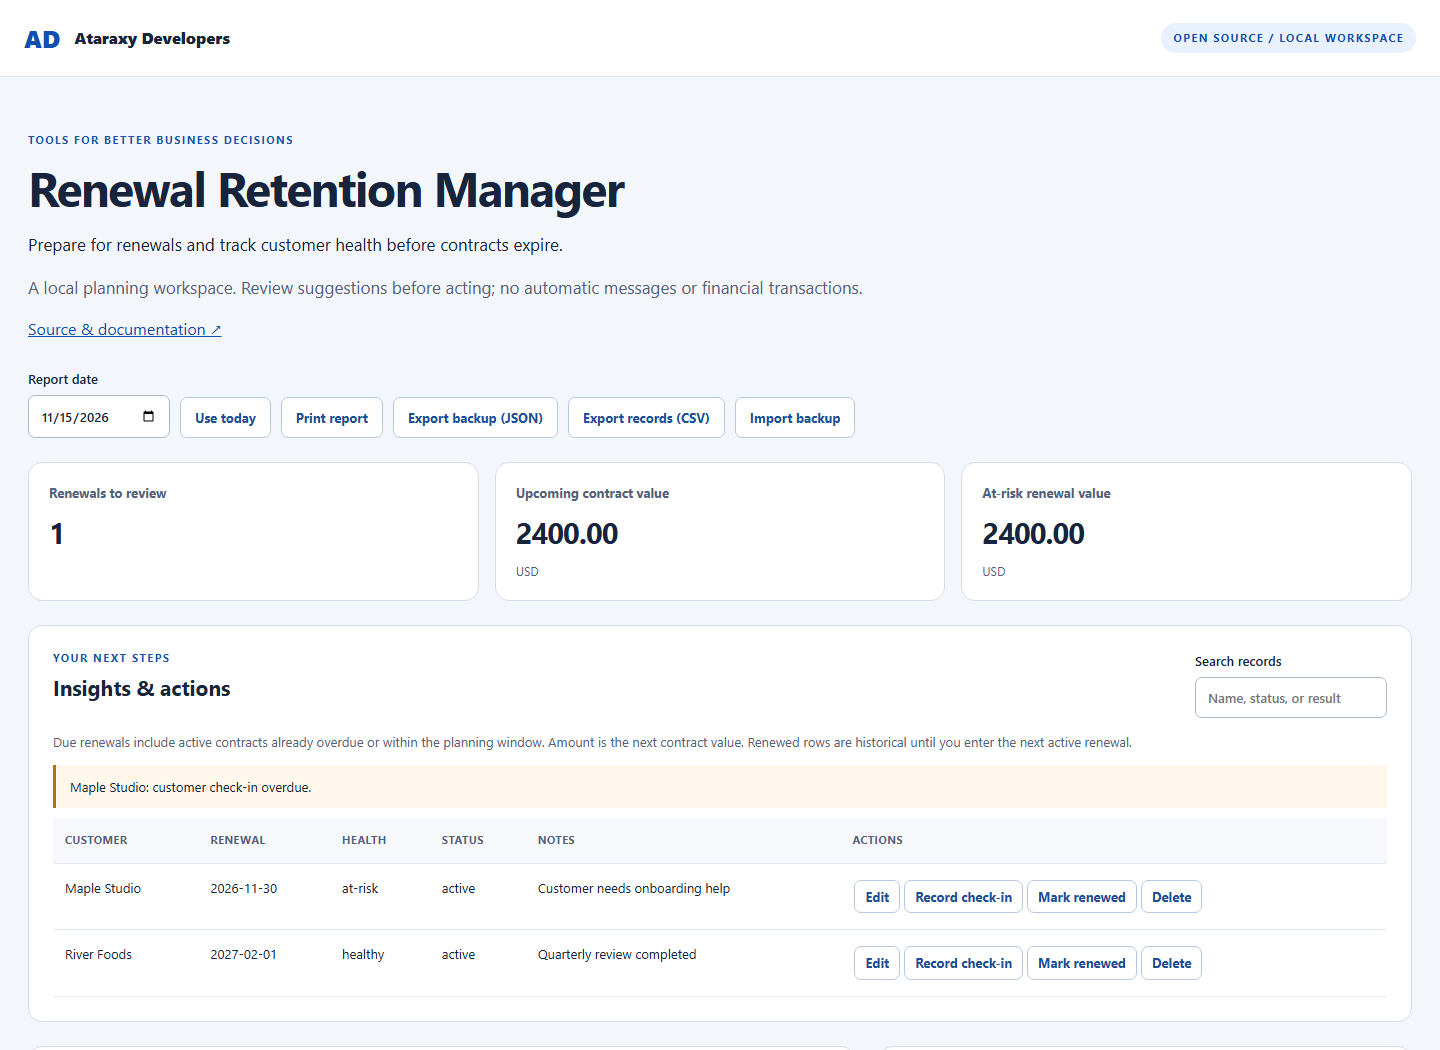
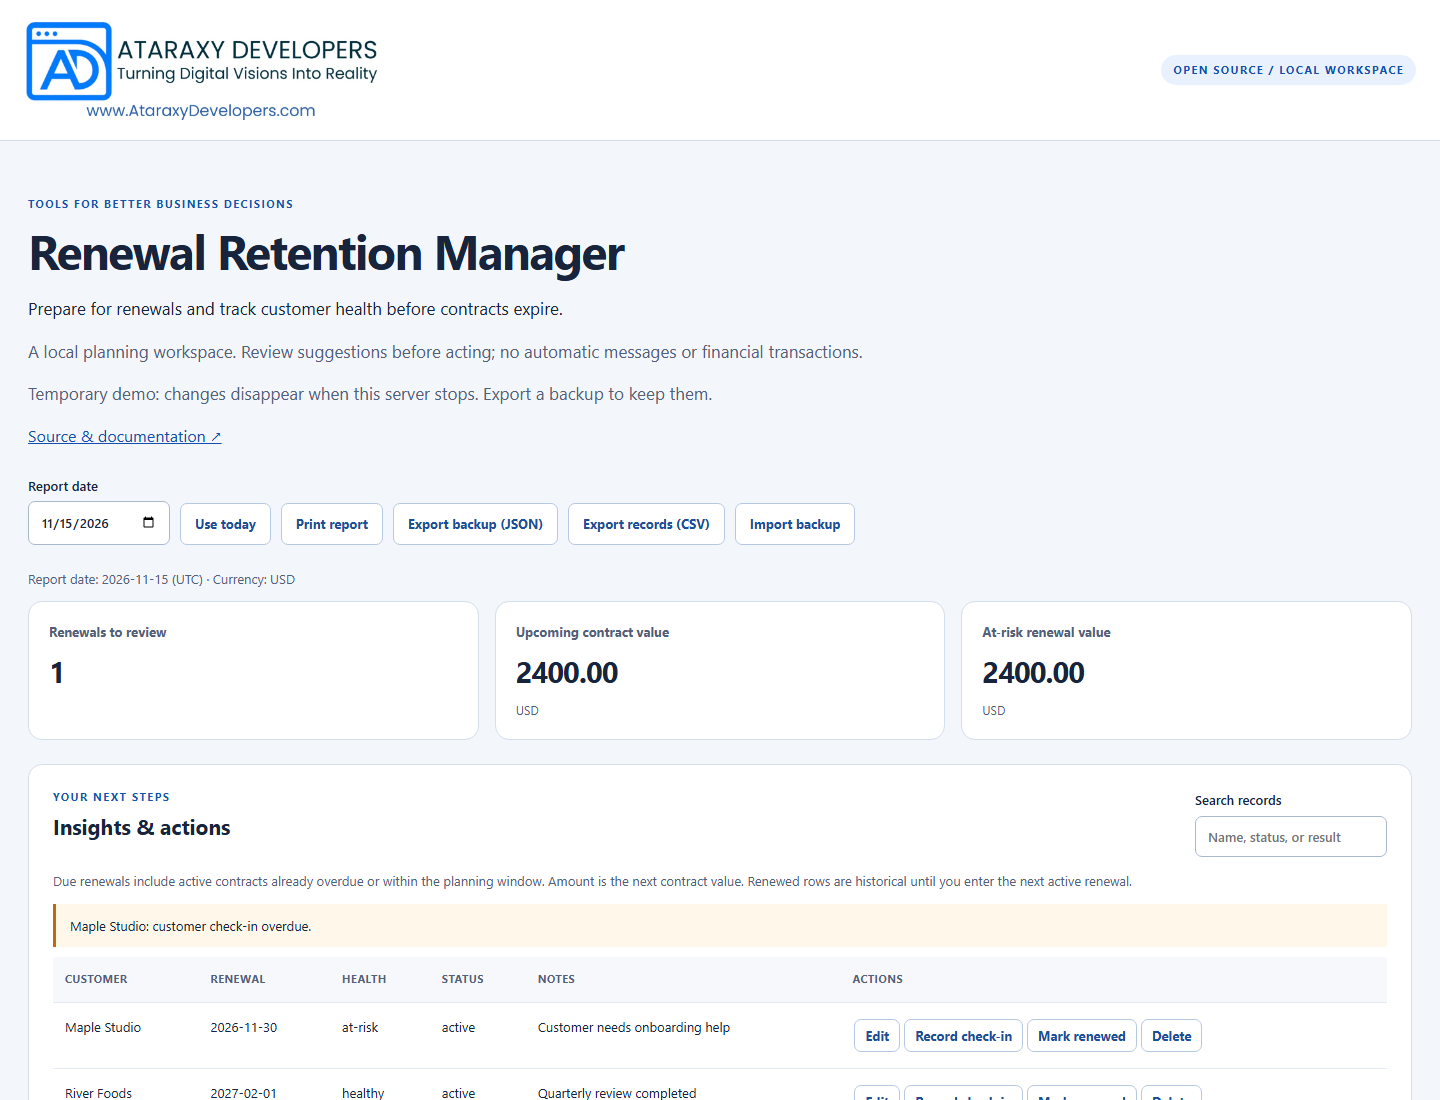
Use approved Ataraxy Developers branding

diff --git a/public/index.html b/public/index.html
@@ -4,16 +4,14 @@
     <meta charset="utf-8" />
     <meta name="viewport" content="width=device-width,initial-scale=1" />
     <title>Business workspace · Ataraxy Developers</title>
-    <link rel="icon" href="/favicon.svg" />
+    <link rel="icon" href="/ataraxy-developers-logo.png" type="image/png" />
     <link rel="stylesheet" href="/style.css" />
     <script type="module" src="/app.js"></script>
   </head>
   <body>
     <a class="skip" href="#main">Skip to workspace</a>
     <header>
-      <a class="brand" href="https://ataraxydevelopers.com"
-        >AD <span>Ataraxy Developers</span></a
-      ><span class="badge">OPEN SOURCE / LOCAL WORKSPACE</span>
+      <a class="brand" href="https://ataraxydevelopers.com"><img src="/ataraxy-developers-logo.png" alt="Ataraxy Developers — Turning Digital Visions Into Reality" width="1127" height="313" /></a><span class="badge">OPEN SOURCE / LOCAL WORKSPACE</span>
     </header>
     <main id="main">
       <section class="hero">

diff --git a/public/style.css b/public/style.css
@@ -40,10 +40,6 @@ header {
   font-weight: 800;
   text-decoration: none;
 }
-.brand span {
-  font-size: 16px;
-  color: #17243b;
-}
 .badge,
 .eyebrow {
   font-size: 11px;
@@ -364,3 +360,9 @@ footer {
     font-size: 27px;
   }
 }
+
+/* Use the complete, original company artwork without distortion. */
+header { flex-wrap: wrap; gap: 16px; background: #fff; }
+.brand { display: block; flex: 0 1 360px; min-width: 0; max-width: 100%; background: #fff; }
+.brand img { display: block; width: 360px; max-width: 100%; height: auto; }
+@media (max-width: 600px) { header { padding: 18px 20px; } .brand { flex-basis: 360px; } }

diff --git a/BRANDING.md b/BRANDING.md
@@ -1,0 +1,10 @@
+# Ataraxy Developers branding
+
+The company-approved logo is [public/ataraxy-developers-logo.png](public/ataraxy-developers-logo.png). It is the original PNG supplied by Ataraxy Developers on 2026-11-16, unchanged.
+
+- Preserve the complete artwork, its aspect ratio, and its white background.
+- Do not redraw it or substitute typed initials, an invented monogram, or generated artwork.
+- Use readable sizing and descriptive alternative text.
+- Capture screenshots from the working interface after this logo has loaded.
+
+SHA-256: 87ebc5a0092af0fff4524e805730ca3dc97c4483bd49f866528b8cdb97d422e7

diff --git a/README.md b/README.md
@@ -1,3 +1,5 @@
+<p><a href="https://ataraxydevelopers.com"><img src="public/ataraxy-developers-logo.png" alt="Ataraxy Developers — Turning Digital Visions Into Reality" width="520"></a></p>
+
 # Renewal Retention Manager
 
 [![CI](https://github.com/AtaraxyDevelopers/renewal-retention-manager/actions/workflows/ci.yml/badge.svg)](https://github.com/AtaraxyDevelopers/renewal-retention-manager/actions/workflows/ci.yml)

diff --git a/CHANGELOG.md b/CHANGELOG.md
@@ -1,5 +1,9 @@
 # Changelog
 
+## 0.1.2 — 2026-11-16
+
+Use the original, approved Ataraxy Developers logo and document its source. Update the interface and browser icon, serve the PNG correctly, and replace the README screenshot with a capture of the corrected app.
+
 ## 0.1.1
 
 - Correct optional date defaults when adding records.
